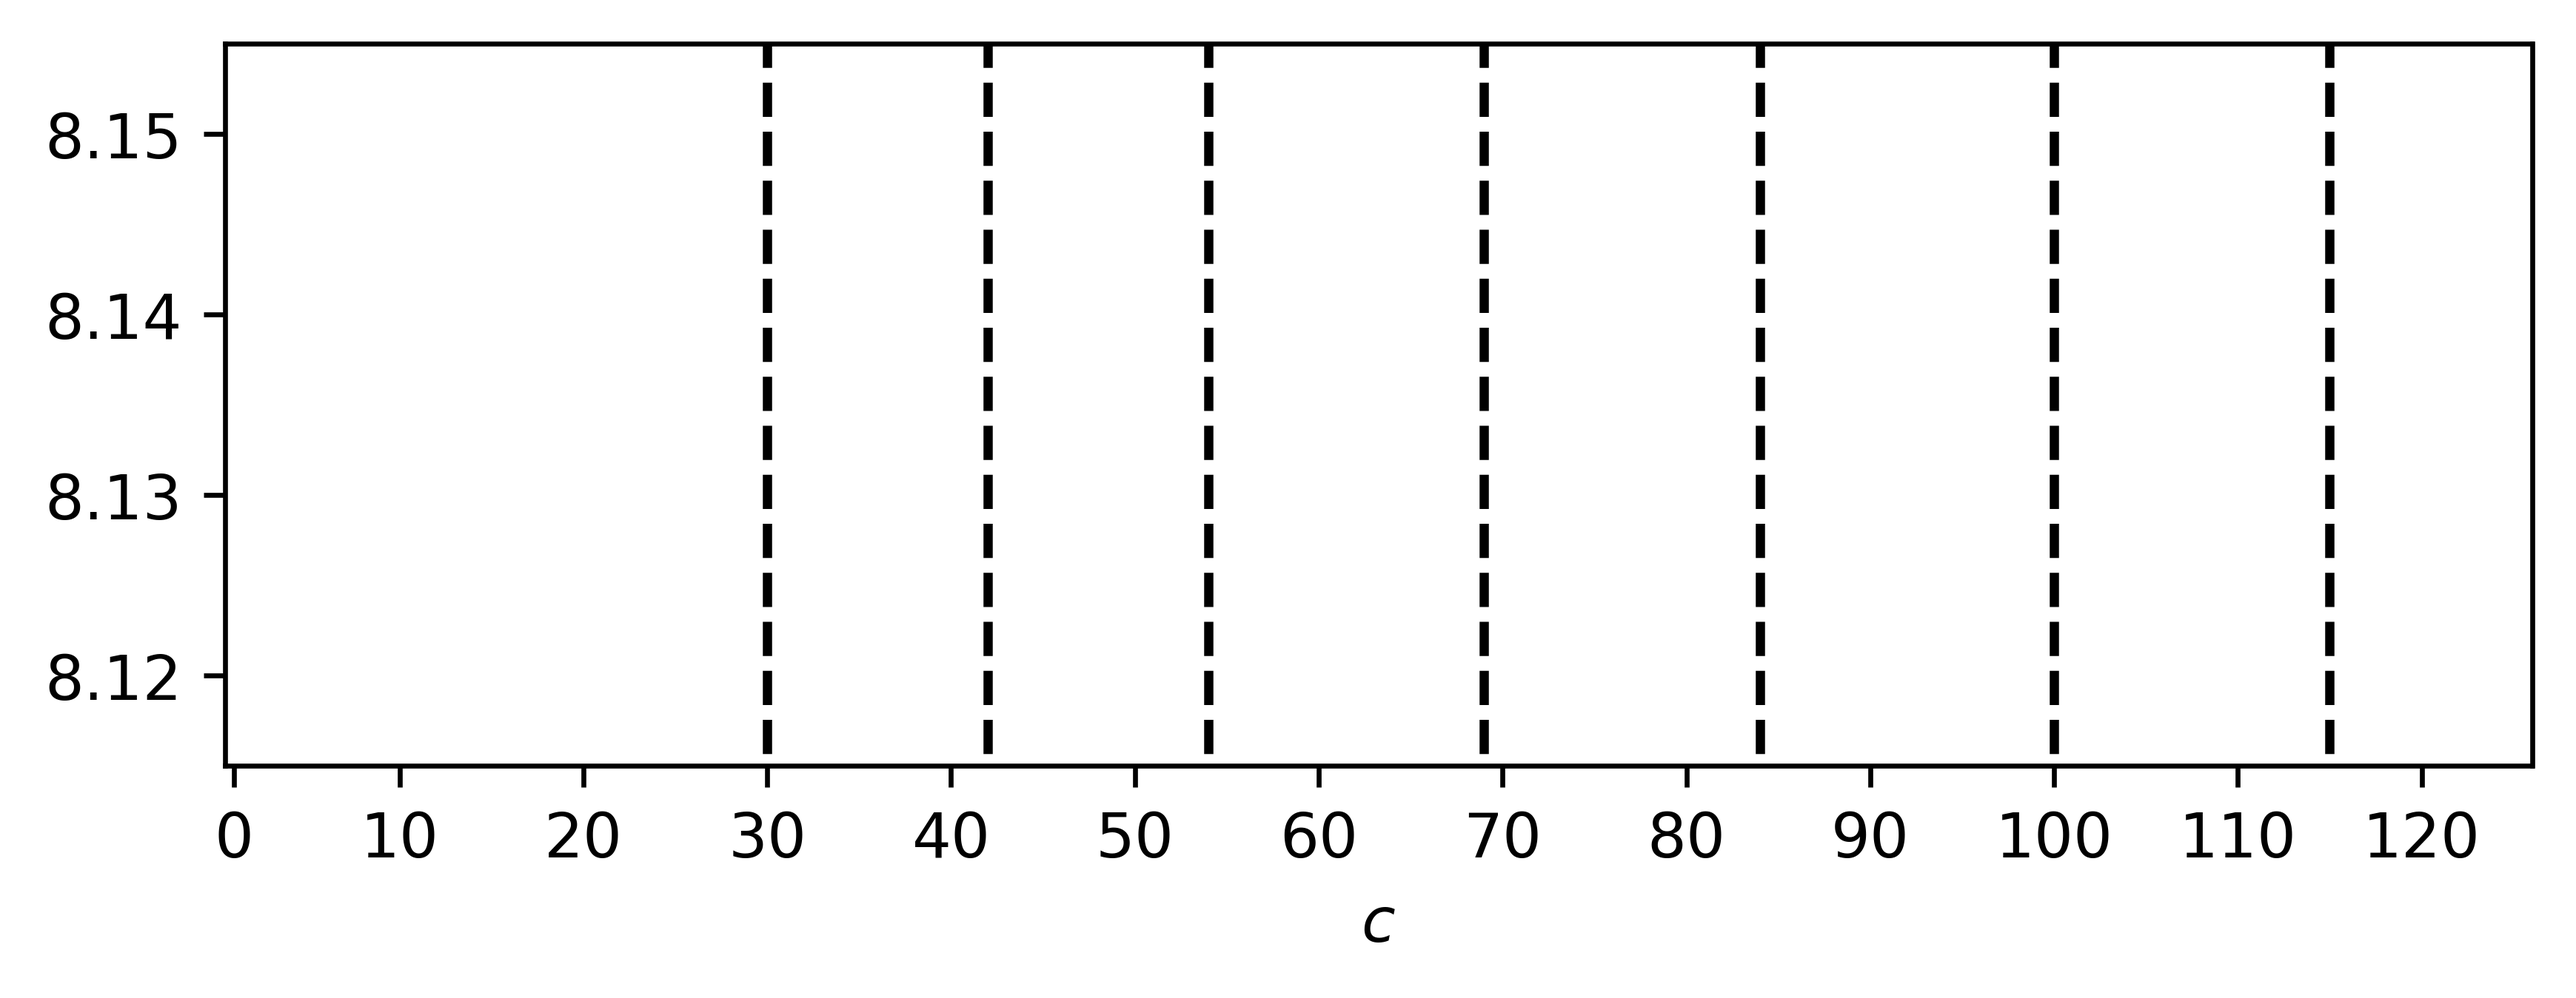
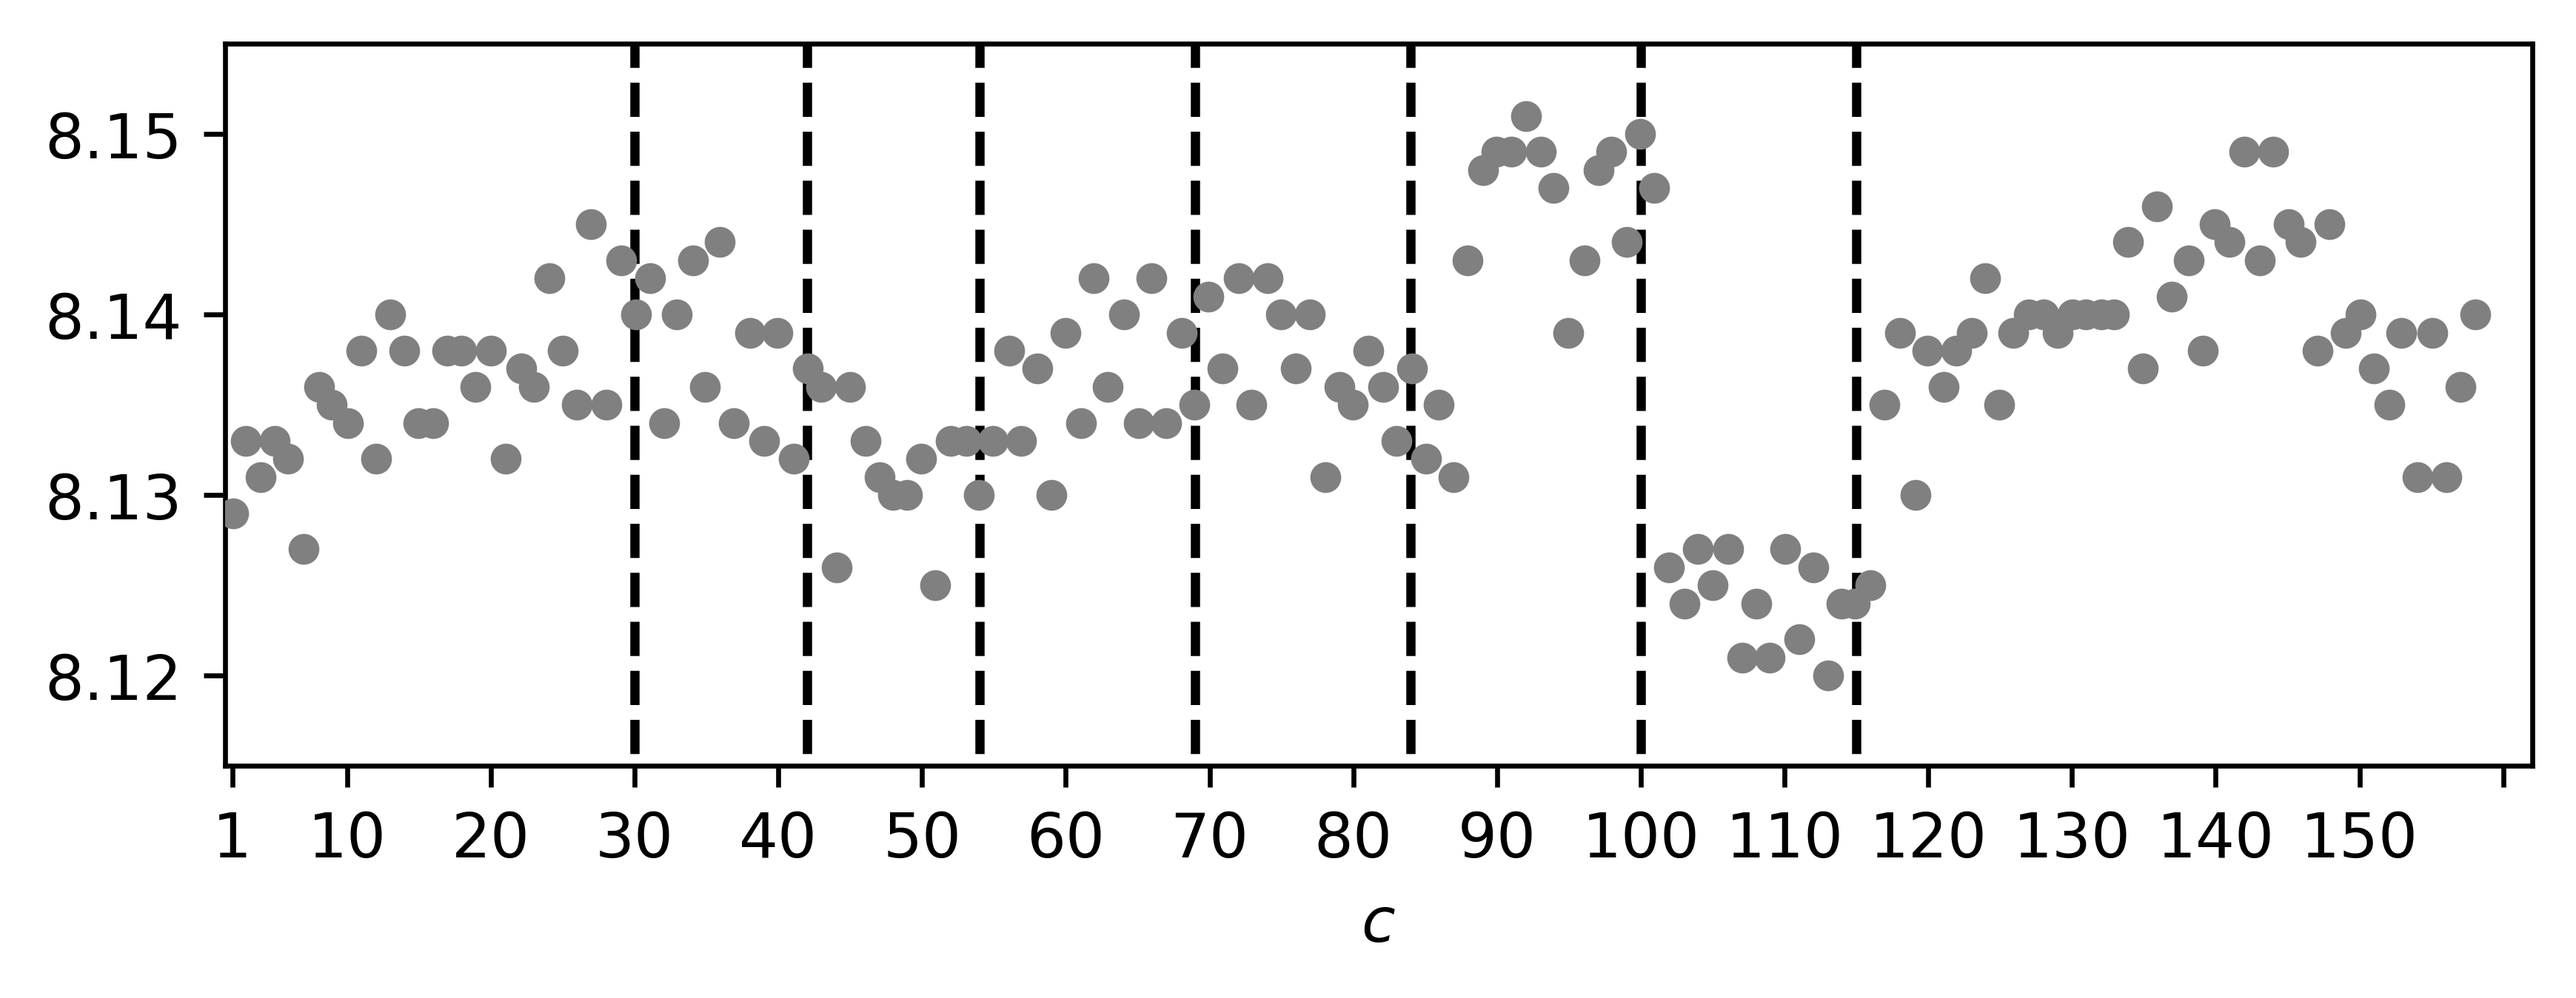
figures

diff --git a/Experiments/Elsevier/QualityModel/GRU/Versuchsplan_Strgrsn/3sub/EvalStrgrsn_Switch_GRU.py b/Experiments/Elsevier/QualityModel/GRU/Versuchsplan_Strgrsn/3sub/EvalStrgrsn_Switch_GRU.py
@@ -48,7 +48,6 @@ def Eval_GRU_on_Val(dim_c):
     
     # path_data_strgrsn = 'data/Stoergroessen/20220506/Rezyklat_Stoerung/normalized/'
     path_data_strgrsn = 'data/Stoergroessen/20220504/Umschaltpkt_Stoerung/normalized/'
-    # path_data_strgrsn = 'data/Stoergroessen/20220505/T_wkz_Stoerung/normalized/'
     
     
     u_inj= ['p_wkz_ist','T_wkz_ist']
@@ -142,18 +141,21 @@ for i in [4]:#range(1,11):
     # color_idx = color_idx +1
     
     pkl.dump(results_st,open('GRU_c'+str(i)+'_SwitchDist_pred.pkl','wb'))
-    
-# sns.stripplot(x = results_st.index, y=results_st['y_true']+weight_c11-1,
-#               ax=ax,color='grey')
+
+
+weight_c11 = 7.991
+
+sns.stripplot(x = results_st.index, y=results_st['y_true']+weight_c11-1,
+              ax=ax,color='grey')
 
 # ax.set_xlabel('$n$')
 # ax.set_ylabel('$\mathrm{BFR}$')
 
 
 # Um Punkte zu finden an denen Umschaltpunkt variiert wurde, müssen alle
-# alle Zyklen durchsucht werden
+#  Zyklen durchsucht werden
 
-# path = 'E:/GitHub/DigitalTwinInjectionMolding/data/Stoergroessen/20220504/Umschaltpkt_Stoerung/'
+# path = 'C:/Users/LocalAdmin/Documents/GitHub/DigitalTwinInjectionMolding/data/Stoergroessen/20220504/Umschaltpkt_Stoerung/'
 
 # switch = []
 # for c in range(251,410):
@@ -161,18 +163,18 @@ for i in [4]:#range(1,11):
 #     switch.append(c_data.loc[0,'Umschaltpunkt'])
 
 # Zyklen an denen Umschaltpunkt geändert wird aus switch abgelesen
-switch =   list(np.array([30,42,54,69,84,100,115])+251)
+switch =   list(np.array([30,42,54,69,84,100,115])+250)
 
 plt.vlines(x=[results_st.index.get_loc(loc) for loc in switch], 
            ymin=0, ymax=10, colors='k', linestyles='dashed')
 
-ax.set_xticklabels([str(c-251) for c in range(251,410) if c not in [253,406]])
+ax.set_xticklabels([str(c-250) for c in range(251,410) if c not in [253,406]])
 
-xticks = [0] + list(np.arange(9,159,10))
+xticks = [0] + list(np.arange(8,159,10))
     
 ax.set_xticks(xticks)
 
-ax.set_xlim([-0.5,125])
+ax.set_xlim([-0.5,160])
 ax.set_ylim([8.115,8.155])
 
 ax.set_xlabel('$c$')

diff --git a/Experiments/Elsevier/QualityModel/ModelComparisonDisturbances/ModelComparison_Switch.py b/Experiments/Elsevier/QualityModel/ModelComparisonDisturbances/ModelComparison_Switch.py
@@ -78,21 +78,21 @@ MLP_e_99 = MLP_e[2]
 color_map = sns.color_palette()
 fig,ax = plt.subplots(3,1)
 
-ax[0].plot(GRU.index, abs(GRU['e']),color=color_map[0],linestyle='solid',marker='x')
+ax[0].plot(GRU.index, abs(GRU['e']),color=color_map[4],linestyle='solid',marker='d')
 ax[0].hlines(y=[GRU_e_90,GRU_e_95,GRU_e_99], xmin=0, xmax=160, colors='grey', 
              linestyles='dashed')
 
 
-ax[1].plot(MLP.index, abs(MLP['e']),color=color_map[1],linestyle='solid',marker='x')
+ax[1].plot(MLP.index, abs(MLP['e']),color=color_map[3],linestyle='solid',marker='+')
 ax[1].hlines(y=[MLP_e_90,MLP_e_95,MLP_e_99], xmin=0, xmax=160, colors='grey', 
              linestyles='dashed')
 
-ax[2].plot(Poly.index, abs(Poly['e']),color=color_map[2],linestyle='solid',marker='x')
+ax[2].plot(Poly.index, abs(Poly['e']),color=color_map[0],linestyle='solid',
+           marker='o',markersize=5)
 ax[2].hlines(y=[Poly_e_90,Poly_e_95,Poly_e_99], xmin=0, xmax=160, colors='grey', 
              linestyles='dashed')
 
-ax[0].set_xticklabels([])
-ax[1].set_xticklabels([])
+
 
 # Plot lines at time instances where disturbance was varied
 for a in ax:
@@ -101,8 +101,10 @@ for a in ax:
     a.set_xlim([-0.5,160])
     a.set_ylim([-0.001,0.031])
     a.set_ylabel(None)
+    a.set_xticks([1,20,40,60,80,100,120,140,160])
     
-
+ax[0].set_xticklabels([])
+ax[1].set_xticklabels([])
     
 ax[2].set_xlabel('$c$')
 

diff --git a/Experiments/Elsevier/QualityModel/ModelComparisonDisturbances/ModelComparison_Recyc.py b/Experiments/Elsevier/QualityModel/ModelComparisonDisturbances/ModelComparison_Recyc.py
@@ -73,16 +73,17 @@ MLP_e_99 = MLP_e[2]
 color_map = sns.color_palette()
 fig,ax = plt.subplots(3,1)
 
-ax[0].plot(GRU.index, abs(GRU['e']),color=color_map[0],linestyle='solid',marker='x')
+ax[0].plot(GRU.index, abs(GRU['e']),color=color_map[4],linestyle='solid',marker='d')
 ax[0].hlines(y=[GRU_e_90,GRU_e_95,GRU_e_99], xmin=0, xmax=130, colors='grey', 
              linestyles='dashed')
 
 
-ax[1].plot(MLP.index, abs(MLP['e']),color=color_map[1],linestyle='solid',marker='x')
+ax[1].plot(MLP.index, abs(MLP['e']),color=color_map[3],linestyle='solid',marker='+')
 ax[1].hlines(y=[MLP_e_90,MLP_e_95,MLP_e_99], xmin=0, xmax=130, colors='grey', 
              linestyles='dashed')
 
-ax[2].plot(Poly.index, abs(Poly['e']),color=color_map[2],linestyle='solid',marker='x')
+ax[2].plot(Poly.index, abs(Poly['e']),color=color_map[0],linestyle='solid',
+           marker='o',markersize=5)
 ax[2].hlines(y=[Poly_e_90,Poly_e_95,Poly_e_99], xmin=0, xmax=130, colors='grey', 
              linestyles='dashed')
 
@@ -96,8 +97,10 @@ for a in ax:
     a.set_xlim([-0.5,125])
     a.set_ylim([-0.001,0.051])
     a.set_ylabel(None)
+    a.set_xticks([1,20,40,60,80,100,120])
     
-
+ax[0].set_xticklabels([])
+ax[1].set_xticklabels([])
     
 ax[2].set_xlabel('$c$')
 

diff --git a/Experiments/SamplingRate/SamplingRate_Deckel.py b/Experiments/SamplingRate/SamplingRate_Deckel.py
@@ -40,7 +40,8 @@ def zero_phase_filter(data, cutoff, fs, order=5):
 
 plt.close('all')
 
[1 lines of base64/hex data omitted]
+path_sys = 'C:/Users/LocalAdmin/Documents/GitHub/DigitalTwinInjectionMolding/'
+path = path_sys + 'data/HighFrequencyMeasurements/Deckel/' # @work
 
 file = 'cycle416.pkl'
 
@@ -103,7 +104,11 @@ ax[1].set_title('Power Spectrum')
 
 ax[1].set_xlabel('Hz')
 
+fig.set_size_inches((15/2.54,10/2.54))
 
+plt.tight_layout()
+
+plt.savefig('PressureSignal_Spectrum.png', bbox_inches='tight',dpi=600)  
 
 # cutoff = fs/2
 
